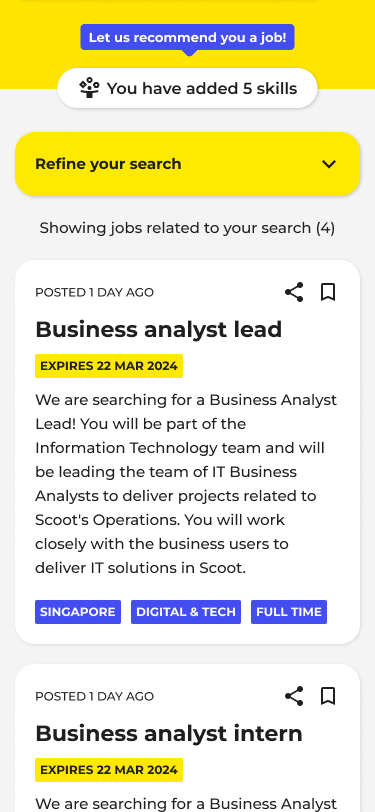
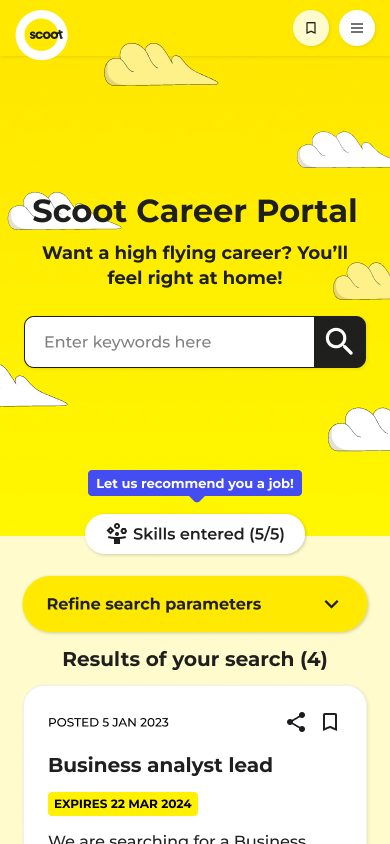
Scoot case study: final designs and tighter copy
Swap in the final homepage, job board and skills search screens from
Figma (no See all jobs). Rewrite the copy around Jac's role, the
research numbers and the skills search decisions (five skills, tagged
jobs, related-skill matching). Personas become one compact comparison.
Testing now focuses on the skills search; findings still to come.

Claude-Session: https://claude.ai/code/session_01UbM4DjFwWiijVKoUmnojdb

diff --git a/website/app/case-study/scoot/page.tsx b/website/app/case-study/scoot/page.tsx
@@ -1,7 +1,6 @@
 'use client';
 import { CaseProjectDetails } from '@/components/case-project-details';
 import { CaseResults } from '@/components/case-results';
-import { CaseMovie } from '@/components/case-movie';
 import { useCaseSectionStack } from '@/components/case-section-stack';
 import { useEffect, useRef, useState } from 'react';
 import Image from 'next/image';
@@ -36,7 +35,7 @@ export default function ScootCaseStudy(){
  const visual=(id:string,context:'page'|'enlarged'='page')=>{
   const item=scootVisuals[id as ScootVisualId];
   if(!item)return <span>{label(id)}</span>;
-  if(item.kind==='phones')return <span className="scoot-stage is-phones">{item.screens.map((src,index)=><span className="scoot-phone" key={src}><Image unoptimized src={src} width={375} height={812} alt={index===0?label(id):''} loading="lazy" /></span>)}</span>;
+  if(item.kind==='phones')return <span className="scoot-stage is-phones">{item.screens.map((src,index)=><span className="scoot-phone" key={src}><Image unoptimized src={src} width={390} height={844} alt={index===0?label(id):''} loading="lazy" /></span>)}</span>;
   return <span className={`scoot-stage is-desktop${item.crop&&context==='page'?' is-cropped':''}`}><span className="scoot-window"><Image unoptimized src={item.src} width={item.width} height={item.height} alt={label(id)} loading="lazy" /></span></span>;
  };
  const open=(id:string,ids:string[]=galleryIds)=>setSelection({ids,index:ids.indexOf(id)});
@@ -48,30 +47,31 @@ export default function ScootCaseStudy(){
  <section id="overview" className="case-section case-overview" tabIndex={-1} aria-labelledby="scoot-title">
   <p className="case-section-label">{sectionLabel(0)}</p>
   <div className="case-content">
-   <h1 id="scoot-title">Scoot Career Portal</h1><p className="case-lead">{text.lead}</p><figure className="case-figure case-movie-figure is-phone"><span className="scoot-stage is-phones is-movie"><span className="scoot-phone"><CaseMovie src="/assets/scoot/scoot-movie.mp4" poster="/assets/scoot/scoot-movie.webp" width={376} height={812} label={language==='fr'?'Prototype mobile : recherche d’offres par compétences, ajout de cinq compétences, puis offres correspondantes.':'Mobile prototype: searching jobs by skills, adding five skills, then the matching jobs.'} /></span></span><figcaption>{language==='fr'?'La recherche d’offres par compétences, sur mobile.':'Searching jobs by skills, on mobile.'}</figcaption></figure><p>{text.intro}</p>
-   <CaseProjectDetails language={language}><ul className="project-team">{text.team.map(([name,role])=><li key={name}><strong>{name}</strong><br />{role}</li>)}</ul></CaseProjectDetails>
+   <h1 id="scoot-title">Scoot Career Portal</h1><p className="case-lead">{text.lead}</p>{figure('homepage')}<p>{text.intro}</p>
+   <CaseProjectDetails language={language}><ul className="project-team">{text.role.map(([name,role])=><li key={name}><strong>{name}</strong><br />{role}</li>)}{text.team.map(([name,role])=><li key={name}><strong>{name}</strong><br />{role}</li>)}</ul></CaseProjectDetails>
    <div className="case-block"><h2>{text.challengeTitle}</h2>{paragraphs(text.challenge)}</div>
   </div>
  </section>
  <section id="research" className="case-section" tabIndex={-1} aria-labelledby="research-title">
   <p className="case-section-label">{sectionLabel(1)}</p><div className="case-content"><h2 id="research-title">{text.researchTitle}</h2><p>{text.researchIntro}</p>
-   {text.personas.map(persona=><article className="persona" key={persona.id} aria-labelledby={`persona-${persona.id}`}>
-    <h3 id={`persona-${persona.id}`}>{persona.title}</h3>
-    <div className="persona-grid"><div className="persona-image"><Image unoptimized src={`/assets/scoot/${persona.id}.png`} width={408} height={360} alt={persona.alt} loading="lazy" /></div><div className="persona-details"><p className="persona-goal">{persona.goal}</p>{persona.details.map(([heading,body])=><p key={heading}><strong>{heading}:</strong> {body}</p>)}</div></div><p>{persona.body}</p>
-   </article>)}
+   <div className="scoot-personas">{text.personas.map(persona=><article className="scoot-persona" key={persona.id} aria-labelledby={`persona-${persona.id}`}>
+    <div className="persona-image"><Image unoptimized src={`/assets/scoot/${persona.id}.png`} width={408} height={360} alt={persona.alt} loading="lazy" /></div>
+    <h3 id={`persona-${persona.id}`}>{persona.title}</h3><p className="scoot-persona-question">{persona.question}</p><p>{persona.need}</p>
+   </article>)}</div>
   </div>
  </section>
  <section id="design" className="case-section" tabIndex={-1} aria-labelledby="design-title">
   <p className="case-section-label">{sectionLabel(2)}</p><div className="case-content case-process">
-   <div className="case-block"><h2 id="design-title">{text.designTitle}</h2><p>{text.designIntro}</p><p>{text.mobile}</p></div>
+   <div className="case-block"><h2 id="design-title">{text.designTitle}</h2><p>{text.designIntro}</p></div>
    {text.decisions.map((decision,index)=><div className="case-block" key={decision.title}><h3 className="scoot-decision-title">{decision.title}</h3>{paragraphs(decision.body)}
     {index===0&&figure('job-board')}
-    {index===1&&<>{figure('skills-results')}<div className="case-gallery" aria-label={text.gallery}>{(['skills-start','skills-select','skills-added'] as const).map(id=><button className="gallery-preview" key={id} aria-label={`${text.open}: ${label(id)}`} onClick={()=>open(id)}>{visual(id)}</button>)}</div></>}
+    {index===1&&figure('skills-start')}
+    {index===2&&figure('skills-results')}
    </div>)}
   </div>
  </section>
  <section id="testing" className="case-section" tabIndex={-1} aria-labelledby="testing-title">
-  <p className="case-section-label">{sectionLabel(3)}</p><div className="case-content"><h2 id="testing-title">{text.testingTitle}</h2>{paragraphs(text.testing)}{figure('homepage')}</div>
+  <p className="case-section-label">{sectionLabel(3)}</p><div className="case-content"><h2 id="testing-title">{text.testingTitle}</h2>{paragraphs(text.testing)}</div>
  </section>
  <section id="takeaways" className="case-section case-takeaways" tabIndex={-1} aria-labelledby="takeaways-title">
   <p className="case-section-label">{sectionLabel(4)}</p><div className="case-content"><CaseResults project="scoot" language={language} titleId="takeaways-title" /><CaseStudyCta href="https://careers.flyscoot.com/" label={text.liveCta} newTabLabel={language==='fr'?'nouvel onglet':'opens in a new tab'} /></div>

diff --git a/website/lib/scoot-visuals.ts b/website/lib/scoot-visuals.ts
@@ -1,16 +1,14 @@
 export const sectionIds = ['overview', 'research', 'design', 'testing', 'takeaways'] as const;
-// Desktop screens sit in a window outline; mobile screens are pairs of 375 × 812 phone screens.
+// Desktop screens sit in a window outline; mobile screens are pairs of 390 × 844 phone screens.
 type Desktop = {kind:'desktop'; src:string; width:number; height:number; crop?:boolean};
 type Phones = {kind:'phones'; screens:readonly string[]};
 const phones = (id:string):Phones => ({kind:'phones', screens:[`/assets/scoot/${id}-a.png`, `/assets/scoot/${id}-b.png`]});
 export const scootVisuals = {
-  'job-board': {kind:'desktop', src:'/assets/scoot/job-board.png', width:1440, height:2356, crop:true} as Desktop,
+  'job-board': {kind:'desktop', src:'/assets/scoot/job-board.png', width:1440, height:2456, crop:true} as Desktop,
   'skills-start': phones('skills-start'),
-  'skills-select': phones('skills-select'),
-  'skills-added': phones('skills-added'),
   'skills-results': phones('skills-results'),
-  homepage: {kind:'desktop', src:'/assets/scoot/homepage.png', width:1440, height:686} as Desktop,
+  homepage: {kind:'desktop', src:'/assets/scoot/homepage.png', width:1440, height:1040} as Desktop,
 };
 export type ScootVisualId = keyof typeof scootVisuals;
 // Gallery follows the order the images appear on the page.
-export const galleryIds = ['job-board', 'skills-results', 'skills-start', 'skills-select', 'skills-added', 'homepage'] as ScootVisualId[];
+export const galleryIds = ['homepage', 'job-board', 'skills-start', 'skills-results'] as ScootVisualId[];

diff --git a/website/app/globals.css b/website/app/globals.css
@@ -675,3 +675,11 @@ html[data-theme="dark"] .site-header .menu-toggle .icon { filter:brightness(0) i
 /* The gallery dialog renders outside .case-site, so it needs the stage colours itself. */
 .scoot-gallery-dialog { --case-placeholder:#dfe1cb; --case-panel:#f5f8e6; }
 html[data-theme="dark"] .scoot-gallery-dialog { --case-placeholder:#35304d; --case-panel:#24213e; }
+/* Scoot audiences: one compact comparison instead of three long persona cards. */
+.scoot-personas { display:grid; grid-template-columns:repeat(3,minmax(0,1fr)); gap:16px; }
+.scoot-persona { display:flex; flex-direction:column; gap:12px; padding:20px; border-radius:8px; background:var(--case-panel); }
+.scoot-case .scoot-persona .persona-image { width:100%; border-radius:4px; overflow:hidden; }
+.scoot-case .scoot-persona h3 { margin:4px 0 0; font:700 18px/1.3 var(--body); }
+.case-content .scoot-persona p { margin:0; font-size:16px; line-height:1.45; }
+.case-content .scoot-persona .scoot-persona-question { font-weight:700; }
+@media(max-width:900px) { .scoot-personas { grid-template-columns:minmax(0,1fr); } .scoot-case .scoot-persona .persona-image { width:min(252px,100%); } }
